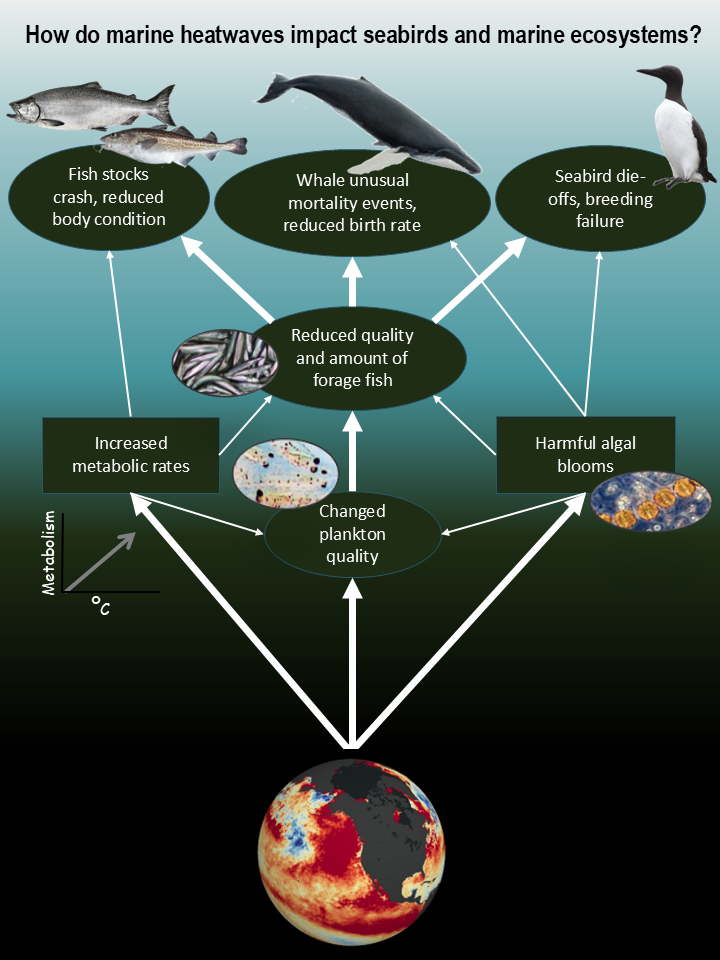
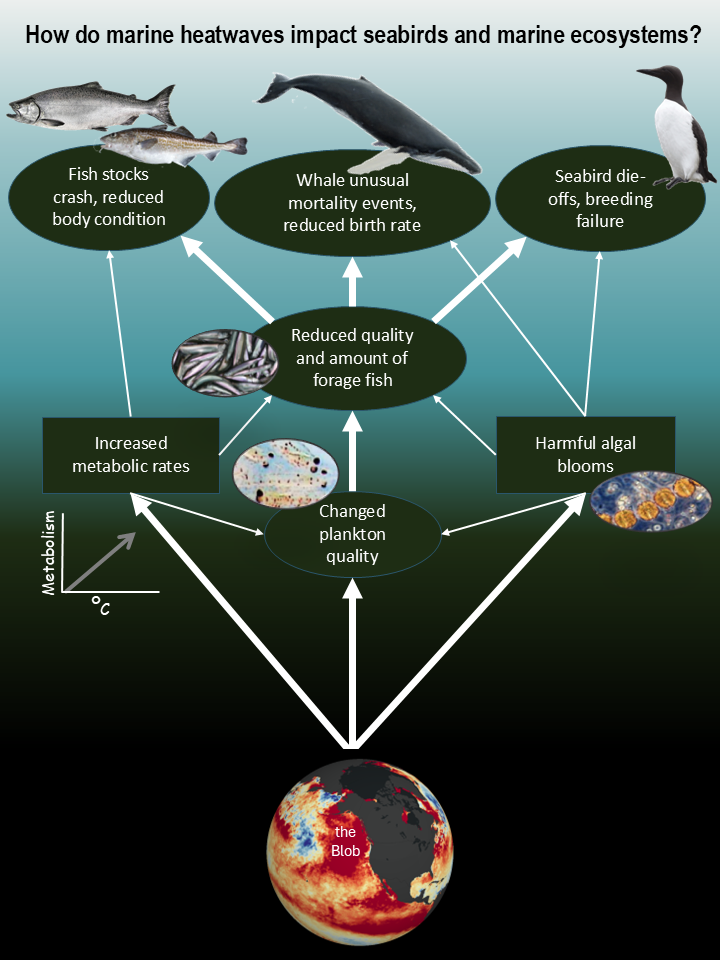
add seabirds

Changed region(s): [[0.3361, 0.7812, 0.6417, 1.0], [0.0611, 0.5312, 0.0917, 0.625]]

diff --git a/index.html b/index.html
@@ -7,8 +7,8 @@
     <title>Ocean Bight - Marine Ecological Consulting</title>
     <link rel="stylesheet" href="styles.css">
     <link href="https://fonts.googleapis.com/css2?family=Inter:wght@400;500;600;700&display=swap" rel="stylesheet">
-    
-    
+
+
 </head>
 
 <body>
@@ -38,9 +38,11 @@
             <p>Ocean Bight is a marine ecological consulting practice specializing in research on marine food webs,
                 glacial fjord ecosystems, and integrated wildlife monitoring and assessments.</p>
             <p><em>Recent human-driven warming of the atmosphere, oceans, and land is affecting every region of the
-                    globe. In Alaska's subarctic and Arctic oceans, we are already experiencing warmer ocean temperatures,
+                    globe. In Alaska's subarctic and Arctic oceans, we are already experiencing warmer ocean
+                    temperatures,
                     increased freshwater runoff, significant glacier and sea ice loss, and extreme marine heatwaves.
-                    These changes impact fish and wildlife populations that support Alaska's economy across many sectors including
+                    These changes impact fish and wildlife populations that support Alaska's economy across many sectors
+                    including
                     recreation, tourism, and commercial fisheries. </em></p>
             <p>Ocean Bight offers research and consulting services to address these challenges through data collection,
                 citizen science, and public engagement to raise climate awareness. This website provides a platform to
@@ -48,19 +50,46 @@
 
             <!-- Projects Section -->
             <section id="projects">
-                <h2 class="section-header">Projects</h2>     
+                <h2 class="section-header">Projects</h2>
 
                 <div class="project-card fade-in" id="climate-stories">
                     <h3>Climate Data Stories</h3>
-                    <p><strong>Climate Data Stories</strong> transform publicly available climate datasets into visual narratives that connect the science to our everyday lives. By framing global trends through a compelling personal lens, these stories aim to make the impacts of climate change tangible and relatable for a broader audience.</p>
-                    <p class="project-subheading"><strong>A Record of Warming1 Across Generations</strong></p>
-                    <p> For more than a century, land and sea surface temperatures have shifted from cooler-than-average conditions (blue) to record warmth (red), with each successive generation experiencing less of the cool past and more warming in a rapidly changing climate.</p>
+                    <p><strong>Climate Data Stories</strong> transform publicly available climate datasets into visual
+                        narratives that connect the science to our everyday lives. By framing global trends through a
+                        compelling personal lens, these stories aim to make the impacts of climate change tangible and
+                        relatable for a broader audience.</p>
+                    <p class="project-subheading"><strong>A Record of Warming Across Generations</strong></p>
+                    <p> For more than a century, land and sea surface temperatures have shifted from cooler-than-average
+                        conditions (blue) to record warmth (red), with each successive generation experiencing less of
+                        the cool past and more warming in a rapidly changing climate.</p>
                     <img src="images/generations_GISSTEMP.png" alt="generations climate graph" class="project-example">
-                    <p class="figure-caption"> The figure above shows the change in average Northen Hemisphere land and sea temperatures experienced by four generations in my family, with each vertical bar representing one year and colors showing change from a mid-20th-century baseline (blue = cooler, red = warmer). From my grandmother's cool childhood temperatures to my nephew's record-warm land and ocean surface temperatures, the climate we experience during our lifetime shapes how we understand the world.</p>
-                        <p class="project-subheading"><strong>Seabirds as First Responders</strong></p>
-                <p>A marine heatwave of extreme magnitude occurred in the North Pacific during 2014-2016, causing catastrophic disruptions of marine food webs and devasting seabird, humpback whale, and commercial fish populations. Coming soon: FAQs about how the marine heatwave (AKA 'the blob') imacted marine ecosystems in the Gulf of Alaska.</p>
-        </div>
-                
+                    <p class="figure-caption"> The figure above shows the change in average Northen Hemisphere land and
+                        sea temperatures experienced by four generations in my family, with each vertical bar
+                        representing one year and colors showing change from a mid-20th-century baseline (blue = cooler,
+                        red = warmer). From my grandmother's cool childhood temperatures to my nephew's record-warm land
+                        and ocean surface temperatures, the climate we experience during our lifetime shapes how we
+                        understand the world.</p>
+                </div>
+
+                <div class="project-card fade-in" id="seabirds-first-responders">
+                    <h3>Seabirds as First Responders</h3>
+                    <p>A marine heatwave of unprecedented intensity, duration, and spatial scale occurred in the North
+                        Pacific during 2014-2016 and led to the largest seabird die-off ever recorded. We later learned
+                        that seabirds were just the tip of the iceberg. The Pacific marine heatwave (AKA "the Blob")
+                        was associated with catastrophic disruptions of marine food webs that impacted seabird,
+                        humpback whale, and commercial fish populations in the Gulf of Alaska.</p>
+                    <img src="images/MHW.png" alt="Marine heatwave impacts graphic" class="project-example">
+                    <p class="figure-caption">The multiyear marine heatwave known as "the Blob" caused widespread
+                        ecological impacts in the North Pacific Ocean. Four million Common Murres are missing from their
+                        breeding colonies in Alaska, making this the single largest documented wildlife mortality event
+                        in the modern era. Impacts to marine predators were widespread and coincided with forage fish
+                        population collapse and other changes lower in the food chain. Harmful algal blooms and
+                        metabolic effects of warming ocean temperatures provided a window into the ecosystem impacts of
+                        extreme warming events.</p>
+                    <p class="project-link"><a href="https://www.youtube.com/watch?v=hq2kDQYRU6Q" target="_blank"
+                            rel="noopener noreferrer">For more information, watch this USGS North Pacific Marine Heatwave video on YouTube</a></p>
+                </div>
+
                 <div class="project-card fade-in" id="chomp-watch">
                     <h3>Chomp Watch</h3>
                     <p><strong>Chomp Watch</strong> is a citizen science initiative that engages fishers and
@@ -72,7 +101,9 @@
                         (x-axis). Sample size (n), and number of empty stomachs per year are noted. Error bars are
                         standard errors (SE). Empty stomachs are not included in the average fish counts.</p>
                     <img src="images/IMG_7831.jpg" alt="Example king salmon stomach photo" class="project-example">
-                    <p>Example Chinook salmon stomach photo for Chomp Watch. Thanks to image data contributors including recreational fishers John Moran, Lara Dzinich, Chris Lunsford, Dave Berger, Pat Malecha, Shawn Carey, Marina Lindsey, Andrew Dimond, and others</p>                    
+                    <p>Example Chinook salmon stomach photo for Chomp Watch. Thanks to image data contributors including
+                        recreational fishers John Moran, Lara Dzinich, Chris Lunsford, Dave Berger, Pat Malecha, Shawn
+                        Carey, Marina Lindsey, Andrew Dimond, and others</p>
                 </div>
             </section>
 
@@ -99,28 +130,36 @@
                             <img src="images/research7.jpg" alt="Northern Ronquil" title="Northern Ronquil">
                         </div>
                         <div class="carousel-item">
-                            <img src="images/research10.JPG" alt="Forage species in Alaska" title="Forage species in Alaska">
+                            <img src="images/research10.JPG" alt="Forage species in Alaska"
+                                title="Forage species in Alaska">
                         </div>
                         <div class="carousel-item">
                             <img src="images/research13.JPG" alt="Cook Inlet, Alaska" title="Cook Inlet, Alaska">
                         </div>
                         <div class="carousel-item">
-                            <img src="images/Glacial_front.jpg" alt="Lamplough Glacier, Glacier Bay Alaska" title="Lamplough Glacier, Glacier Bay Alaska">
+                            <img src="images/Glacial_front.jpg" alt="Lamplough Glacier, Glacier Bay Alaska"
+                                title="Lamplough Glacier, Glacier Bay Alaska">
                         </div>
                         <div class="carousel-item">
-                            <img src="images/sandlance_herring_capelin2.png" alt="Pacific sand lance, Pacific herring, Pacific capelin" title="Pacific sand lance, Pacific herring, Pacific capelin">
+                            <img src="images/sandlance_herring_capelin2.png"
+                                alt="Pacific sand lance, Pacific herring, Pacific capelin"
+                                title="Pacific sand lance, Pacific herring, Pacific capelin">
                         </div>
                         <div class="carousel-item">
-                            <img src="images/lumpsucker.jpg" alt="Pacific Spiny Lumpsucker" title="Pacific Spiny Lumpsucker">
+                            <img src="images/lumpsucker.jpg" alt="Pacific Spiny Lumpsucker"
+                                title="Pacific Spiny Lumpsucker">
                         </div>
                         <div class="carousel-item">
-                            <img src="images/lumpsucker.jpg" alt="Pacific Spiny Lumpsucker" title="Pacific Spiny Lumpsucker">
+                            <img src="images/lumpsucker.jpg" alt="Pacific Spiny Lumpsucker"
+                                title="Pacific Spiny Lumpsucker">
                         </div>
                         <div class="carousel-item">
-                            <img src="images/KIMUfish.jpg" alt="Kittlitz's Murrelet carrying a capelin" title="Kittlitz's Murrelet carrying a capelin">
+                            <img src="images/KIMUfish.jpg" alt="Kittlitz's Murrelet carrying a capelin"
+                                title="Kittlitz's Murrelet carrying a capelin">
                         </div>
-                         <div class="carousel-item">
-                            <img src="images/cookinletcatch.JPG" alt="fish and purple jellies in Cook Inlet" title="fish and purple jellies in Cook Inlet">
+                        <div class="carousel-item">
+                            <img src="images/cookinletcatch.JPG" alt="fish and purple jellies in Cook Inlet"
+                                title="fish and purple jellies in Cook Inlet">
                         </div>
                     </div>
                     <div class="carousel-controls">
@@ -142,13 +181,14 @@
                     <button type="submit">Send Message</button>
                 </form>
             </section>
-        <footer class="site-footer">
-            <div class="footer-content">
-                <p>&copy; 2025 Ocean Bight, LLC.
-                <a href="LICENSE" target="_blank">Code: MIT</a> | 
-                <a href="https://creativecommons.org/licenses/by/4.0/" target="_blank">Content: CC BY 4.0</a></p>
-            </div>
-        </footer>
+            <footer class="site-footer">
+                <div class="footer-content">
+                    <p>&copy; 2025 Ocean Bight, LLC.
+                        <a href="LICENSE" target="_blank">Code: MIT</a> |
+                        <a href="https://creativecommons.org/licenses/by/4.0/" target="_blank">Content: CC BY 4.0</a>
+                    </p>
+                </div>
+            </footer>
     </main>
 
     <script src="script.js" defer></script>

diff --git a/styles.css b/styles.css
@@ -15,8 +15,10 @@
     --accent-color: #e8f4ff;
     --glacier-blue: #183852;
     --deep-ice: #0d2c40;
-    --ice-glow: rgba(165, 216, 255, 0.3);  /* Reduced from 0.5 for subtlety */
-    --ice-glow-strong: rgba(165, 216, 255, 0.5);  /* For stronger effects when needed */
+    --ice-glow: rgba(165, 216, 255, 0.3);
+    /* Reduced from 0.5 for subtlety */
+    --ice-glow-strong: rgba(165, 216, 255, 0.5);
+    /* For stronger effects when needed */
     --text-primary: #f0f8ff;
     --text-secondary: #c0d6e8;
     --glass-bg: rgba(26, 63, 92, 0.65);
@@ -584,8 +586,13 @@ nav {
 }
 
 @keyframes spin {
-    0% { transform: translateY(-50%) rotate(0deg); }
-    100% { transform: translateY(-50%) rotate(360deg); }
+    0% {
+        transform: translateY(-50%) rotate(0deg);
+    }
+
+    100% {
+        transform: translateY(-50%) rotate(360deg);
+    }
 }
 
 /* Footer */
@@ -900,6 +907,8 @@ section h2,
     font-family: 'Syne', sans-serif;
     line-height: var(--line-height-tight);
     font-size: var(--font-size-4xl);
+    border-bottom: none;
+    padding-bottom: 0;
 }
 
 .project-card p {
@@ -910,17 +919,33 @@ section h2,
     margin-right: auto;
 }
 
+.project-link {
+    margin: var(--space-sm) auto var(--space-md) auto;
+    max-width: 1300px;
+}
+
+.project-link a {
+    color: var(--primary-color);
+    font-weight: 600;
+    text-decoration: none;
+    transition: color 0.3s ease, text-decoration-color 0.3s ease;
+}
+
+.project-link a:hover,
+.project-link a:focus {
+    color: var(--text-primary);
+    text-decoration: underline;
+}
+
 .project-card img.project-main {
-    width: 100%;
-    max-width: 1600px;
+    width: min(100%, 900px);
     height: auto;
     display: block;
     margin: 0 auto var(--space-lg) auto;
 }
 
 .project-card img.project-example {
-    width: 100%;
-    max-width: 1600px;
+    width: min(100%, 900px);
     height: auto;
     display: block;
     margin: var(--space-lg) auto 0 auto;
@@ -936,13 +961,14 @@ section h2,
 
 /* Project subheading styling */
 .project-subheading {
-    font-size: var(--font-size-3xl);
-    font-weight: 600;
+    font-size: calc(var(--font-size-3xl) + 0.25rem);
+    font-weight: 700;
     color: var(--primary-color);
     margin: var(--space-lg) 0 var(--space-md) 0;
     max-width: 1300px;
     margin-left: auto;
     margin-right: auto;
+    letter-spacing: 0.01em;
 }
 
 /* Figure caption styling */
@@ -970,7 +996,7 @@ section h2,
     }
 
     .project-subheading {
-        font-size: var(--font-size-4xl);
+        font-size: calc(var(--font-size-4xl) + 0.25rem);
     }
 
     .figure-caption {
